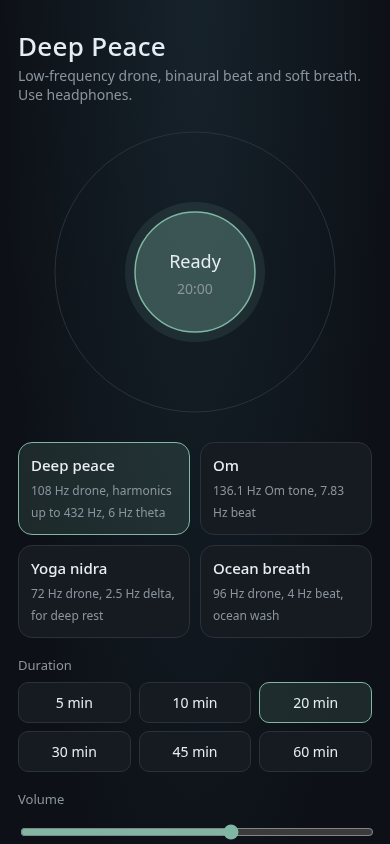
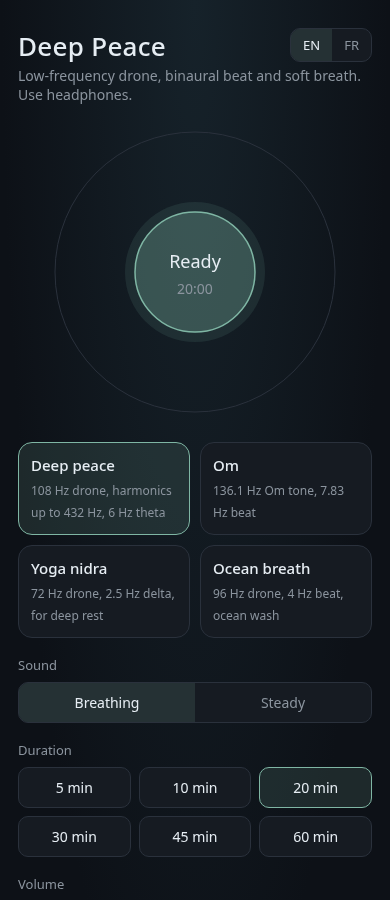
feat(app): add steady mode and English/French interface

diff --git a/index.html b/index.html
@@ -27,13 +27,18 @@
   input[type=range]{width:100%;accent-color:var(--acc);height:28px}
   .go{width:100%;border:0;border-radius:16px;padding:16px;font:inherit;font-size:17px;font-weight:600;background:var(--acc);color:#0b1512}
   .go.stop{background:var(--card);color:var(--txt);border:1px solid var(--line)}
+  .top{display:flex;justify-content:space-between;align-items:center;gap:10px}
+  .seg{display:inline-flex;border:1px solid var(--line);border-radius:10px;overflow:hidden;background:var(--card)}
+  .seg button{border:0;background:none;color:var(--sub);font:inherit;font-size:13px;padding:7px 12px}
+  .seg button.on{background:var(--accs);color:var(--txt)}
+  .seg.wide{display:flex}.seg.wide button{flex:1;padding:10px 0;font-size:14px}
   .note{color:var(--sub);font-size:12px;text-align:center;margin-top:14px;line-height:1.5}
 </style>
 </head>
 <body>
 <main>
-  <h1>Deep Peace</h1>
-  <p class="sub">Low-frequency drone, binaural beat and soft breath. Use headphones.</p>
+  <div class="top"><h1>Deep Peace</h1><div class="seg" id="lang"><button data-l="en">EN</button><button data-l="fr">FR</button></div></div>
+  <p class="sub" id="sub"></p>
   <div class="circle-wrap">
     <svg viewBox="0 0 300 300" aria-hidden="true">
       <circle cx="150" cy="150" r="140" fill="none" stroke="#2a313c" stroke-width="1"/>
@@ -44,27 +49,42 @@
     </svg>
   </div>
   <div class="presets" id="presets"></div>
-  <div class="row"><label>Duration</label><div class="times" id="times"></div></div>
-  <div class="row"><label>Volume</label><input type="range" id="vol" min="0" max="1" step="0.01" value="0.6"></div>
-  <button class="go" id="go">Begin</button>
-  <p class="note">Keep this page open while it plays. On iPhone, switch off silent mode so sound comes through.</p>
+  <div class="row"><label id="lMode"></label><div class="seg wide" id="mode"><button data-m="breath"></button><button data-m="steady"></button></div></div>
+  <div class="row"><label id="lDur"></label><div class="times" id="times"></div></div>
+  <div class="row"><label id="lVol"></label><input type="range" id="vol" min="0" max="1" step="0.01" value="0.6"></div>
+  <button class="go" id="go"></button>
+  <p class="note" id="note"></p>
 </main>
 <script>
 const PRESETS=[
-  {id:'peace',name:'Deep peace',note:'108 Hz drone, harmonics up to 432 Hz, 6 Hz theta',base:108,beat:6,noise:.15,breath:10},
-  {id:'om',name:'Om',note:'136.1 Hz Om tone, 7.83 Hz beat',base:136.1,beat:7.83,noise:.08,breath:12},
-  {id:'nidra',name:'Yoga nidra',note:'72 Hz drone, 2.5 Hz delta, for deep rest',base:72,beat:2.5,noise:.2,breath:14},
-  {id:'ocean',name:'Ocean breath',note:'96 Hz drone, 4 Hz beat, ocean wash',base:96,beat:4,noise:.55,breath:11},
+  {id:'peace',base:108,beat:6,noise:.15,breath:10},
+  {id:'om',base:136.1,beat:7.83,noise:.08,breath:12},
+  {id:'nidra',base:72,beat:2.5,noise:.2,breath:14},
+  {id:'ocean',base:96,beat:4,noise:.55,breath:11},
 ];
+const I18N={
+ en:{sub:'Low-frequency drone, binaural beat and soft breath. Use headphones.',subS:'Low-frequency drone and soft, constant sound. No pulsing, no variation.',mode:'Sound',breath:'Breathing',steady:'Steady',dur:'Duration',vol:'Volume',begin:'Begin',stop:'Stop',ready:'Ready',inh:'Breathe in',exh:'Breathe out',still:'Steady',end:'Namaste',min:'min',
+  note:'Keep this page open while it plays. On iPhone, switch off silent mode so sound comes through.',
+  p:{peace:['Deep peace','108 Hz drone, harmonics up to 432 Hz, 6 Hz theta'],om:['Om','136.1 Hz Om tone, 7.83 Hz beat'],nidra:['Yoga nidra','72 Hz drone, 2.5 Hz delta, for deep rest'],ocean:['Ocean breath','96 Hz drone, 4 Hz beat, ocean wash']},
+  pS:{peace:'108 Hz drone, harmonics up to 432 Hz',om:'136.1 Hz Om tone',nidra:'72 Hz drone, for deep rest',ocean:'96 Hz drone, steady ocean wash'}},
+ fr:{sub:'Bourdon grave, battement binaural et souffle doux. Utilisez un casque.',subS:'Bourdon grave et son doux et constant. Sans pulsation, sans variation.',mode:'Son',breath:'Respiration',steady:'Stable',dur:'Durée',vol:'Volume',begin:'Commencer',stop:'Arrêter',ready:'Prêt',inh:'Inspirez',exh:'Expirez',still:'Stable',end:'Namaste',min:'min',
+  note:'Gardez cette page ouverte pendant l’écoute. Sur iPhone, désactivez le mode silencieux pour entendre le son.',
+  p:{peace:['Paix profonde','Bourdon 108 Hz, harmoniques jusqu’à 432 Hz, thêta 6 Hz'],om:['Om','Note Om 136,1 Hz, battement 7,83 Hz'],nidra:['Yoga nidra','Bourdon 72 Hz, delta 2,5 Hz, pour le repos profond'],ocean:['Souffle de l’océan','Bourdon 96 Hz, battement 4 Hz, ressac']},
+  pS:{peace:'Bourdon 108 Hz, harmoniques jusqu’à 432 Hz',om:'Note Om 136,1 Hz',nidra:'Bourdon 72 Hz, pour le repos profond',ocean:'Bourdon 96 Hz, ressac constant'}}
+};
+const store={get:k=>{try{return localStorage.getItem(k)}catch(e){return null}},set:(k,v)=>{try{localStorage.setItem(k,v)}catch(e){}}};
+let lang=store.get('dp-lang')||((navigator.language||'en').toLowerCase().startsWith('fr')?'fr':'en');
+let mode=store.get('dp-mode')==='steady'?'steady':'breath';
+const T=()=>I18N[lang], steady=()=>mode==='steady';
 const TIMES=[5,10,20,30,45,60];
 let preset=PRESETS[0], minutes=20, ctx=null, nodes=null, running=false, endAt=0, t0=0, raf=0, wake=null;
 const $=id=>document.getElementById(id);
 function renderPresets(){
-  $('presets').innerHTML=PRESETS.map(p=>`<button class="preset ${p===preset?'on':''}" data-id="${p.id}"><b>${p.name}</b><span>${p.note}</span></button>`).join('');
+  $('presets').innerHTML=PRESETS.map(p=>`<button class="preset ${p===preset?'on':''}" data-id="${p.id}"><b>${T().p[p.id][0]}</b><span>${steady()?T().pS[p.id]:T().p[p.id][1]}</span></button>`).join('');
   $('presets').querySelectorAll('button').forEach(b=>b.onclick=()=>{preset=PRESETS.find(p=>p.id===b.dataset.id);renderPresets();if(running){stop(true);start();}});
 }
 function renderTimes(){
-  $('times').innerHTML=TIMES.map(m=>`<button class="t ${m===minutes?'on':''}" data-m="${m}">${m} min</button>`).join('');
+  $('times').innerHTML=TIMES.map(m=>`<button class="t ${m===minutes?'on':''}" data-m="${m}">${m} ${T().min}</button>`).join('');
   $('times').querySelectorAll('button').forEach(b=>b.onclick=()=>{minutes=+b.dataset.m;renderTimes();if(running)endAt=performance.now()+minutes*60000;else $('clock').textContent=fmt(minutes*60);});
 }
 const fmt=s=>{s=Math.max(0,Math.ceil(s));return String(Math.floor(s/60)).padStart(2,'0')+':'+String(s%60).padStart(2,'0')};
@@ -77,14 +97,14 @@ function build(){
   const merger=ctx.createChannelMerger(2);
   const bg=ctx.createGain(); bg.gain.value=.22; merger.connect(bg); bg.connect(master);
   const L=ctx.createOscillator(), R=ctx.createOscillator();
-  L.frequency.value=p.base; R.frequency.value=p.base+p.beat;
+  L.frequency.value=p.base; R.frequency.value=steady()?p.base:p.base+p.beat;
   const lg=ctx.createGain(), rg=ctx.createGain(); lg.gain.value=rg.gain.value=1;
   L.connect(lg).connect(merger,0,0); R.connect(rg).connect(merger,0,1);
   const lp=ctx.createBiquadFilter(); lp.type='lowpass'; lp.frequency.value=700; lp.Q.value=.5;
   const pad=ctx.createGain(); pad.gain.value=.12; lp.connect(pad).connect(master);
   const oscs=[L,R];
   [[1,.5],[1.5,.25],[2,.3],[3,.12],[4,.08]].forEach(([m,g],i)=>{
-    const o=ctx.createOscillator(); o.type=i%2?'triangle':'sine'; o.frequency.value=p.base*m; o.detune.value=(i-2)*3;
+    const o=ctx.createOscillator(); o.type=i%2?'triangle':'sine'; o.frequency.value=p.base*m; o.detune.value=steady()?0:(i-2)*3;
     const og=ctx.createGain(); og.gain.value=g; o.connect(og).connect(lp); oscs.push(o);
   });
   const len=ctx.sampleRate*4, buf=ctx.createBuffer(2,len,ctx.sampleRate);
@@ -93,17 +113,19 @@ function build(){
   const nf=ctx.createBiquadFilter(); nf.type='lowpass'; nf.frequency.value=500;
   const ng=ctx.createGain(); ng.gain.value=p.noise*.5;
   ns.connect(nf).connect(ng).connect(master);
+  if(!steady()){
   const lfo=ctx.createOscillator(); lfo.frequency.value=1/p.breath;
   const lfoG=ctx.createGain(); lfoG.gain.value=p.noise*.45; lfo.connect(lfoG).connect(ng.gain);
   const lfoF=ctx.createGain(); lfoF.gain.value=250; lfo.connect(lfoF).connect(nf.frequency);
   oscs.push(lfo);
+  }
   oscs.forEach(o=>o.start(now)); ns.start(now); oscs.push(ns);
   nodes={master,oscs};
 }
 async function start(){
   build(); if(ctx.state==='suspended') await ctx.resume();
   running=true; t0=performance.now(); endAt=t0+minutes*60000;
-  $('go').textContent='Stop'; $('go').classList.add('stop');
+  $('go').textContent=T().stop; $('go').classList.add('stop');
   try{ if('wakeLock' in navigator) wake=await navigator.wakeLock.request('screen'); }catch(e){}
   loop();
 }
@@ -114,24 +136,35 @@ function stop(quick){
   master.gain.linearRampToValueAtTime(0,now+f);
   oscs.forEach(o=>{try{o.stop(now+f+.1)}catch(e){}});
   nodes=null; running=false; cancelAnimationFrame(raf);
-  $('go').textContent='Begin'; $('go').classList.remove('stop');
-  $('cue').textContent='Ready'; $('clock').textContent=fmt(minutes*60);
+  $('go').textContent=T().begin; $('go').classList.remove('stop');
+  $('cue').textContent=T().ready; $('clock').textContent=fmt(minutes*60);
   $('orb').setAttribute('r',60); $('glow').setAttribute('r',70);
   if(wake){wake.release().catch(()=>{});wake=null;}
 }
 function loop(){
   const t=performance.now(), left=(endAt-t)/1000;
-  if(left<=0){stop(false);$('cue').textContent='Namaste';return;}
-  const ph=((t-t0)/1000%preset.breath)/preset.breath, s=(1-Math.cos(ph*2*Math.PI))/2;
+  if(left<=0){stop(false);$('cue').textContent=T().end;return;}
+  if(steady()){$('orb').setAttribute('r',60);$('glow').setAttribute('r',70);$('cue').textContent=T().still;}
+  else{const ph=((t-t0)/1000%preset.breath)/preset.breath, s=(1-Math.cos(ph*2*Math.PI))/2;
   $('orb').setAttribute('r',55+60*s); $('glow').setAttribute('r',65+70*s);
-  $('cue').textContent=ph<.5?'Breathe in':'Breathe out';
+  $('cue').textContent=ph<.5?T().inh:T().exh;}
   $('clock').textContent=fmt(left);
   raf=requestAnimationFrame(loop);
 }
 $('go').onclick=()=>running?stop(false):start();
 $('vol').oninput=e=>{if(nodes){nodes.master.gain.cancelScheduledValues(ctx.currentTime);nodes.master.gain.setTargetAtTime(+e.target.value,ctx.currentTime,.1);}};
 document.addEventListener('visibilitychange',async()=>{if(running&&document.visibilityState==='visible'&&'wakeLock' in navigator){try{wake=await navigator.wakeLock.request('screen')}catch(e){}}});
-renderPresets(); renderTimes(); $('clock').textContent=fmt(minutes*60);
+function applyText(){
+  const t=T(); document.documentElement.lang=lang;
+  $('sub').textContent=steady()?t.subS:t.sub; $('lMode').textContent=t.mode; $('lDur').textContent=t.dur; $('lVol').textContent=t.vol; $('note').textContent=t.note;
+  $('go').textContent=running?t.stop:t.begin; if(!running&&$('cue').textContent!==I18N.en.end&&$('cue').textContent!==I18N.fr.end)$('cue').textContent=t.ready;
+  $('lang').querySelectorAll('button').forEach(b=>b.classList.toggle('on',b.dataset.l===lang));
+  $('mode').querySelectorAll('button').forEach(b=>{b.textContent=t[b.dataset.m];b.classList.toggle('on',b.dataset.m===mode);});
+  renderPresets(); renderTimes();
+}
+$('lang').querySelectorAll('button').forEach(b=>b.onclick=()=>{lang=b.dataset.l;store.set('dp-lang',lang);applyText();});
+$('mode').querySelectorAll('button').forEach(b=>b.onclick=()=>{if(mode===b.dataset.m)return;mode=b.dataset.m;store.set('dp-mode',mode);applyText();if(running){const e=endAt;stop(true);start().then(()=>{endAt=e;});}});
+applyText(); $('clock').textContent=fmt(minutes*60);
 </script>
 </body>
 </html>

diff --git a/README.md b/README.md
@@ -17,7 +17,7 @@
 
 | Phone view |
 |---|
-| <img src="docs/screenshots/app.png" alt="The Deep Peace app on a phone: breathing circle reading Ready 20:00, four sound presets, duration buttons and a volume slider" width="300"> |
+| <img src="docs/screenshots/app.png" alt="The Deep Peace app on a phone: breathing circle reading Ready 20:00, EN/FR switch, four sound presets, Breathing/Steady switch, duration buttons and a volume slider" width="300"> |
 
 ## Contents
 
@@ -42,6 +42,9 @@ Open **https://fschmutz.github.io/DEEP-PEACE/** in Chrome or Safari, pick a soun
 | Om | 136.1 Hz | 7.83 Hz | 12 s |
 | Yoga nidra | 72 Hz | 2.5 Hz (delta) | 14 s |
 | Ocean breath | 96 Hz | 4 Hz | 11 s |
+
+- **Breathing / Steady** — Breathing (default) gives the binaural beat, a breath-paced swell and the in/out guide. Steady removes every variation: both ears get the same tone, the noise stays constant, no detune shimmer, and the circle stays still while the countdown runs. Works with every preset. The page remembers your choice.
+- **EN / FR** — the switch at the top translates the whole interface. The first visit follows the browser language, and the page remembers your choice.
 
 Timers: 5, 10, 20, 30, 45 or 60 minutes. Start fades in over 4 s, Stop fades out over 3 s.
 

diff --git a/CHANGELOG.md b/CHANGELOG.md
@@ -9,6 +9,10 @@ this repository adheres to [Semantic Versioning](https://semver.org/spec/v2.0.0.
 
 ### Added
 
+- Steady mode (Breathing / Steady switch): no binaural beat, no breath LFO,
+  no detune, still circle; applies to every preset and is remembered.
+- English / French interface (EN | FR switch). The first visit follows
+  `navigator.language`, the choice is remembered, and `<html lang>` is set.
 - `index.html`: the Deep Peace app — four presets (Deep peace, Om, Yoga nidra,
   Ocean breath), binaural beat, low-pass harmonic pad, breath-modulated noise,
   5–60 minute timer, volume, breathing circle, screen wake lock. No dependencies.

diff --git a/wiki/Home.md b/wiki/Home.md
@@ -17,7 +17,7 @@ on the Web Audio API, served by GitHub Pages at
 
 ## Screenshots
 
-![The Deep Peace app on a phone: breathing circle reading Ready 20:00, four sound presets, duration buttons and a volume slider](https://github.com/fschmutz/DEEP-PEACE/raw/main/docs/screenshots/app.png)
+![The Deep Peace app on a phone: breathing circle reading Ready 20:00, EN/FR switch, four sound presets, Breathing/Steady switch, duration buttons and a volume slider](https://github.com/fschmutz/DEEP-PEACE/raw/main/docs/screenshots/app.png)
 
 ## How this wiki works
 
